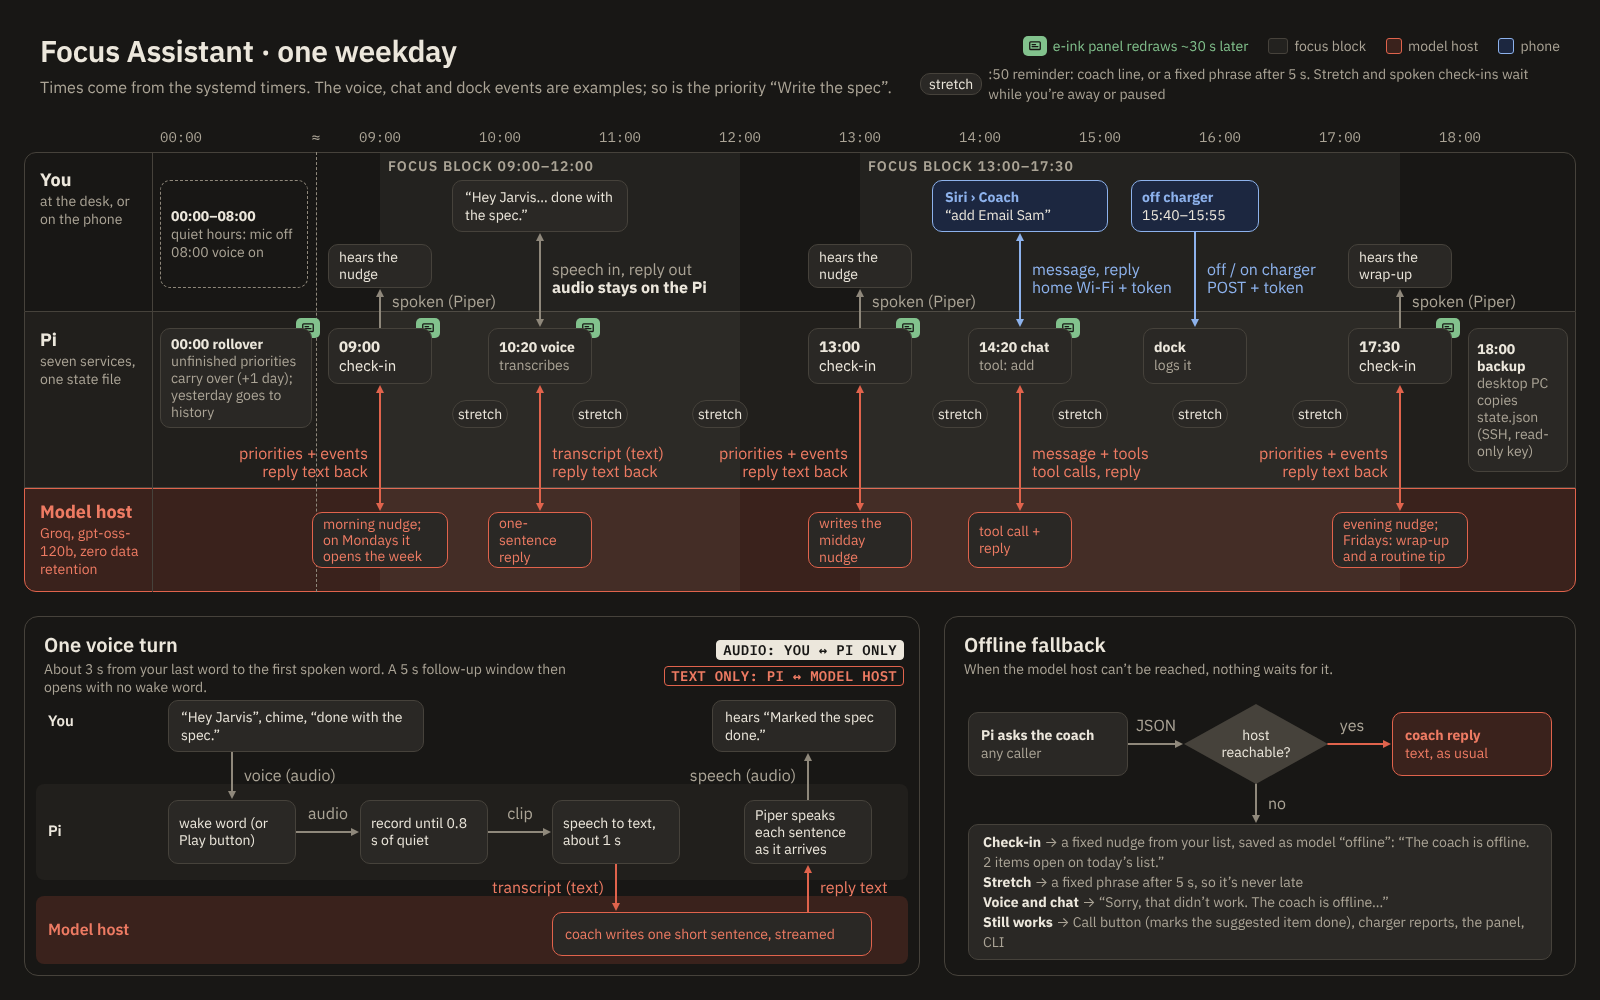
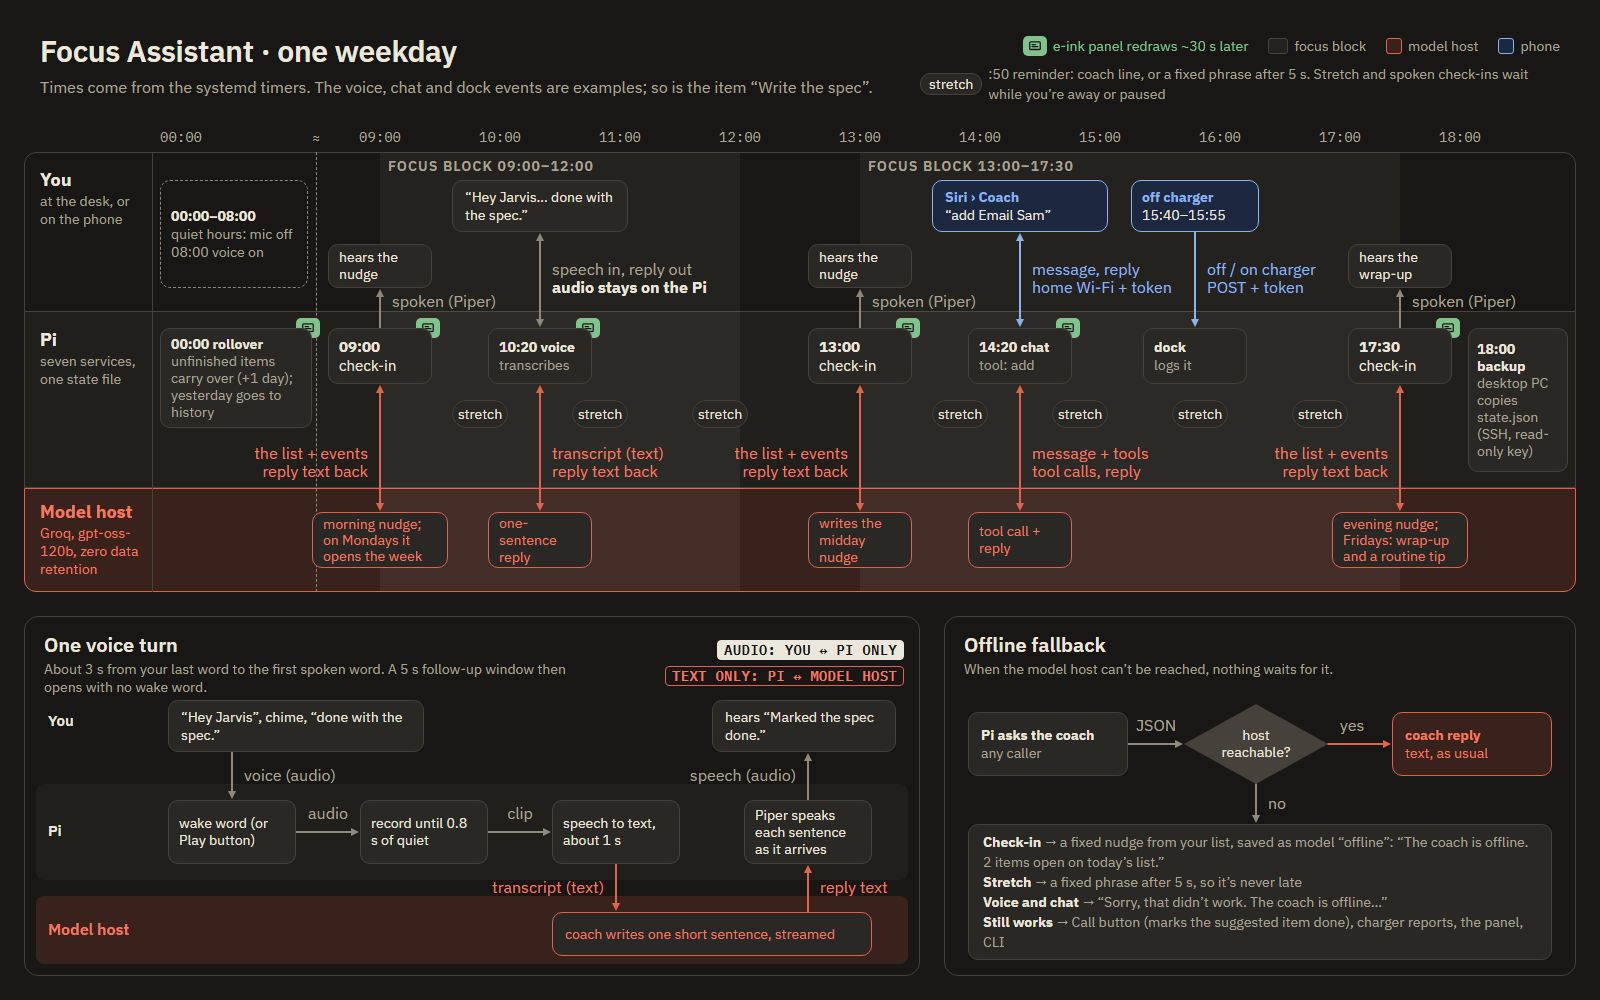
Say "list" and "items" in the docs, and correct the chat tool count
The docs and the weekday diagram still talked about priorities after the
switch to an unranked to-do list, and architecture.md still counted
thirteen chat tools; there are ten now (nine change the list, one rates
a reply).

diff --git a/docs/diagrams/workflow.html b/docs/diagrams/workflow.html
@@ -65,7 +65,7 @@ a{color:#1f4f9c}a:hover{color:#191815}
 
 <!-- title, legend, axis -->
 <div style="position: absolute; left: 40px; top: 32px; font-size: 30px; line-height: 38px; font-weight: 600; letter-spacing: -0.01em">Focus Assistant · one weekday</div>
-<div style="position: absolute; left: 40px; top: 76px; width: 860px; font-size: 16px; line-height: 22px; color: var(--muted)">Times come from the systemd timers. The voice, chat and dock events are examples; so is the priority “Write the spec”.</div>
+<div style="position: absolute; left: 40px; top: 76px; width: 860px; font-size: 16px; line-height: 22px; color: var(--muted)">Times come from the systemd timers. The voice, chat and dock events are examples; so is the item “Write the spec”.</div>
 <div style="position: absolute; left: 920px; top: 36px; width: 640px; display: flex; flex-wrap: wrap; gap: 8px 20px; justify-content: flex-end; font-size: 14px; line-height: 20px; color: var(--muted)">
 <span style="display: inline-flex; align-items: center; gap: 6px; color: var(--nokey)"><span class="pb"><svg width="14" height="14" viewBox="0 0 24 24" fill="none" stroke="currentColor" stroke-width="2.2" stroke-linecap="round" stroke-linejoin="round" aria-hidden="true"><rect x="3" y="5" width="18" height="13" rx="1.5"></rect><path d="M7 9.5h6M7 13h10"></path></svg></span>e-ink panel redraws ~30 s later</span>
 <span style="display: inline-flex; align-items: center; gap: 6px"><span style="display: inline-block; width: 18px; height: 14px; border-radius: 3px; background: var(--focus); border: 1px solid var(--border)"></span>focus block</span>
@@ -110,7 +110,7 @@ a{color:#1f4f9c}a:hover{color:#191815}
 <div style="position: absolute; left: 1348px; top: 244px; width: 104px; height: 44px; box-sizing: border-box; display: flex; align-items: center; padding: 4px 10px; background: var(--card); border: 1.5px solid var(--border); border-radius: 10px; font-size: 14px; line-height: 17px"><span>hears the wrap-up</span></div>
 
 <!-- Pi lane -->
-<div style="position: absolute; left: 160px; top: 328px; width: 152px; height: 100px; box-sizing: border-box; display: flex; align-items: center; padding: 6px 10px; background: var(--card); border: 1.5px solid var(--border); border-radius: 10px; font-size: 14px; line-height: 17px"><span><b style="font-size: 14px">00:00 rollover</b><br><span class="s">unfinished priorities carry over (+1 day); yesterday goes to history</span></span></div>
+<div style="position: absolute; left: 160px; top: 328px; width: 152px; height: 100px; box-sizing: border-box; display: flex; align-items: center; padding: 6px 10px; background: var(--card); border: 1.5px solid var(--border); border-radius: 10px; font-size: 14px; line-height: 17px"><span><b style="font-size: 14px">00:00 rollover</b><br><span class="s">unfinished items carry over (+1 day); yesterday goes to history</span></span></div>
 <div style="position: absolute; left: 328px; top: 328px; width: 104px; height: 56px; box-sizing: border-box; display: flex; align-items: center; padding: 4px 10px; background: var(--card); border: 1.5px solid var(--border); border-radius: 10px; font-size: 15px; line-height: 19px"><span><b>09:00</b><br>check-in</span></div>
 <div style="position: absolute; left: 488px; top: 328px; width: 104px; height: 56px; box-sizing: border-box; display: flex; align-items: center; padding: 4px 10px; background: var(--card); border: 1.5px solid var(--border); border-radius: 10px; font-size: 14px; line-height: 18px"><span><b>10:20 voice</b><br><span class="s">transcribes</span></span></div>
 <div style="position: absolute; left: 808px; top: 328px; width: 104px; height: 56px; box-sizing: border-box; display: flex; align-items: center; padding: 4px 10px; background: var(--card); border: 1.5px solid var(--border); border-radius: 10px; font-size: 15px; line-height: 19px"><span><b>13:00</b><br>check-in</span></div>
@@ -140,11 +140,11 @@ a{color:#1f4f9c}a:hover{color:#191815}
 <div style="position: absolute; left: 552px; top: 260px; width: 180px; font-size: 16px; line-height: 18px; color: var(--muted)">speech in, reply out<br><b style="color: var(--ink)">audio stays on the Pi</b></div>
 <div style="position: absolute; left: 1032px; top: 260px; width: 152px; font-size: 16px; line-height: 18px; color: var(--phone)">message, reply<br>home Wi-Fi + token</div>
 <div style="position: absolute; left: 1207px; top: 260px; width: 132px; font-size: 16px; line-height: 18px; color: var(--phone)">off / on charger<br>POST + token</div>
-<div style="position: absolute; left: 160px; top: 444px; width: 208px; text-align: right; font-size: 16px; line-height: 18px; color: var(--host)">priorities + events<br>reply text back</div>
+<div style="position: absolute; left: 160px; top: 444px; width: 208px; text-align: right; font-size: 16px; line-height: 18px; color: var(--host)">the list + events<br>reply text back</div>
 <div style="position: absolute; left: 552px; top: 444px; width: 140px; font-size: 16px; line-height: 18px; color: var(--host)">transcript (text)<br>reply text back</div>
-<div style="position: absolute; left: 704px; top: 444px; width: 144px; text-align: right; font-size: 16px; line-height: 18px; color: var(--host)">priorities + events<br>reply text back</div>
+<div style="position: absolute; left: 704px; top: 444px; width: 144px; text-align: right; font-size: 16px; line-height: 18px; color: var(--host)">the list + events<br>reply text back</div>
 <div style="position: absolute; left: 1032px; top: 444px; width: 148px; font-size: 16px; line-height: 18px; color: var(--host)">message + tools<br>tool calls, reply</div>
-<div style="position: absolute; left: 1244px; top: 444px; width: 144px; text-align: right; font-size: 16px; line-height: 18px; color: var(--host)">priorities + events<br>reply text back</div>
+<div style="position: absolute; left: 1244px; top: 444px; width: 144px; text-align: right; font-size: 16px; line-height: 18px; color: var(--host)">the list + events<br>reply text back</div>
 
 <!-- inset: one voice turn -->
 <div style="position: absolute; left: 44px; top: 632px; font-size: 20px; line-height: 26px; font-weight: 600">One voice turn</div>

diff --git a/docs/architecture.md b/docs/architecture.md
@@ -26,7 +26,7 @@ At a glance:
 
 <picture>
   <source media="(prefers-color-scheme: dark)" srcset="diagrams/week-simple-dark.png">
-  <img alt="A week at a glance: Monday opens the week with last Friday's tip, a later priority shows up on its day, a paused day off, Friday's wrap-up with one routine tip, carried into next Monday; below, where the routine tip comes from" src="diagrams/week-simple.png">
+  <img alt="A week at a glance: Monday opens the week with last Friday's tip, a later item shows up on its day, a paused day off, Friday's wrap-up with one routine tip, carried into next Monday; below, where the routine tip comes from" src="diagrams/week-simple.png">
 </picture>
 
 <picture>
@@ -56,7 +56,7 @@ a desktop PC that copies `state.json` at 18:00.
 
 ```
                     ┌───────────────── state.json ─────────────────┐
-                    │ priorities · check-ins · events · chat ·     │
+                    │ the list · check-ins · events · chat ·       │
                     │ 14-day history          (file lock, atomic)  │
                     └───────▲──────────────▲───────────────▲───────┘
                             │              │               │
@@ -73,11 +73,11 @@ a desktop PC that copies `state.json` at 18:00.
   lock for the whole read-modify-write and saves atomically (write, then
   rename), so a power cut never leaves a half-written file.
 - **Day rollover** happens in code at the first use each day: unfinished
-  priorities carry over (`carried_days + 1`, if a check-in ran that day and
+  items carry over (`carried_days + 1`, if a check-in ran that day and
   they were on the list by then), a summary of the day goes into `history`
   (with the patterns routine suggestions need: check-in times, when things
   got done, phone pickups by hour), and the day's check-ins, events and chat
-  are cleared. Priorities scheduled for another day wait in the same list
+  are cleared. Items scheduled for another day wait in the same list
   until their day. At the first rollover of a new week, Friday's review
   moves into `last_week` for Monday's check-in.
 - **`focus.actions`** is every state change (add, rename, schedule,
@@ -86,13 +86,14 @@ a desktop PC that copies `state.json` at 18:00.
   whichever input you use.
 - **The coach** (`coach.py`) is a single chat-completions call per check-in,
   to an open model on any OpenAI-compatible host. It gets a JSON payload:
-  priorities, today's check-ins, events and chat, and the last five daily
+  the list, today's check-ins, events and chat, and the last five daily
   summaries. The lock is never held during a model call. `<think>` text from
   reasoning models is stripped, streamed or not. If the host can't be
   reached, the check-in is a fixed nudge built from the same data
   (`offline_reply`), recorded with model `offline`.
 - **Chat** (`chat.py`) adds a small tool loop: the model can change
-  priorities only through thirteen tools that call `focus.actions`, at most six
+  the list only through nine tools that call `focus.actions` (a tenth rates
+  a reply), at most six
   model calls per message. Open models don't always follow a tool schema,
   so every argument is checked (JSON, whole-number ids, known values,
   length) before anything changes. Earlier turns are replayed as plain text.
@@ -111,7 +112,7 @@ focus/
   stretch.py      the :50 stretch reminder (coach-written, fixed fallback), :00 back to work
   presence.py     away or not, from charger events and desk sound
   pause.py        "quiet until 11" and days off: when check-ins and reminders wait
-  days.py         "tomorrow", "wed", "2026-10-24": days for pauses and later priorities
+  days.py         "tomorrow", "wed", "2026-10-24": days for pauses and later items
   feedback.py     replies.jsonl: every model reply with its payload, checks and ratings
   blocks.py       focus blocks (FOCUS_BLOCKS)
   display.py      the status page (HTML)

diff --git a/README.md b/README.md
@@ -1,7 +1,7 @@
 # focus-assistant
 
 A focus coach that lives on your desk. A Raspberry Pi checks in three times
-each workday, looks at your priorities and what has happened since the last
+each workday, looks at your to-do list and what has happened since the last
 check-in, and asks an open language model for a short, specific nudge: what to start with,
 how the morning went, what carries over to tomorrow. Everything else is
 optional and built around one idea: **help you focus without picking up
@@ -102,9 +102,9 @@ focus last            # the latest check-in
 focus status          # services, next timers, today, presence and API cost
 ```
 
-Each morning, unfinished priorities carry over with a "days carried" count,
+Each morning, unfinished items carry over with a "days carried" count,
 and finished ones go into a 14-day history the coach uses for context. A
-day counts only if a check-in ran on it, and only for priorities that were
+day counts only if a check-in ran on it, and only for items that were
 on the list by its last check-in: weekends, days off and tomorrow's plan
 added in the evening don't make anything look like it slipped. After
 three days carried, the coach suggests shrinking, rescheduling or dropping
@@ -128,7 +128,7 @@ routine suggestions any time, by chat or voice.
 **Improving the coach.** Every reply the model writes is kept on the Pi for
 60 days in `replies.jsonl`, next to exactly what the coach was given, and
 checked against the rules code can verify (length, no markdown, a morning
-check-in that names a priority, short on weekends). Rate replies with
+check-in that suggests an item, short on weekends). Rate replies with
 `focus rate good|bad`, or tell the coach "that was wrong". `focus feedback`
 lists what was rated bad or failed a check: bring those to the next round
 of changes to the prompts or code. The loop is drawn in
@@ -155,13 +155,13 @@ a dollar a month**. You can give chat, voice and stretch reminders a smaller,
 faster model (`FOCUS_CHAT_MODEL`). Set the prices in `focus.env` and
 `focus status` shows the day's cost from the token counts it records; set a
 spend limit at your model host if it offers one. If the host can't be reached,
-check-ins fall back to a fixed nudge built from your priorities.
+check-ins fall back to a fixed nudge built from your list.
 
 ## Privacy
 
 - **Your data stays on the Pi**, in one JSON file (and a 60-day log of the
   coach's replies, for improving it), except what is sent to
-  the model host you chose, to write each reply: your priorities, today's
+  the model host you chose, to write each reply: your list, today's
   events and check-ins, and recent daily summaries. Check that host's data
   retention policy.
 - **Speech never leaves the Pi.** Speech recognition (faster-whisper or

diff --git a/docs/install.md b/docs/install.md
@@ -1,6 +1,6 @@
 # Install
 
-This gets the core running: priorities and three check-ins a day. Every
+This gets the core running: the to-do list and three check-ins a day. Every
 optional feature builds on it; see the other guides when you're ready.
 
 ## What you need
@@ -139,5 +139,5 @@ sudo systemctl disable --now focus-checkin.timer focus-stretch.timer \
 sudo rm /etc/systemd/system/focus-* /etc/udev/rules.d/70-focus-powerconf.rules
 sudo rm -r /opt/focus-assistant /etc/focus-assistant /usr/local/bin/focus
 sudo systemctl daemon-reload
-rm -r ~/.local/state/focus-assistant           # your priorities and history
+rm -r ~/.local/state/focus-assistant           # your list and history
 ```

diff --git a/docs/configuration.md b/docs/configuration.md
@@ -27,7 +27,7 @@ point that `install.sh` copies.
 | `FOCUS_LOG_WORDS` | (off) | `1` writes what you say, type or mark done into the system journal. Off, the journal gets only the length (`<16 chars>`). Turn it on while tuning voice. |
 
 **When the host can't be reached** (or a setting is missing), check-ins
-use a fixed nudge from your priorities, stretch reminders use a fixed
+use a fixed nudge from your list, stretch reminders use a fixed
 phrase, and chat and voice answer that the coach is offline. Nothing else
 calls out, so there is no other fallback.
 

diff --git a/docs/phone.md b/docs/phone.md
@@ -167,7 +167,7 @@ http://focus.local:8765/display?k=<FOCUS_DISPLAY_TOKEN>
 ```
 
 The token goes in the URL because a browser bookmark can't send a header.
-Anyone with that link on your Wi-Fi can read your priorities. On an iPhone,
+Anyone with that link on your Wi-Fi can read your list. On an iPhone,
 Share > Add to Home Screen gives it an icon.
 
 The upper panel mirrors the e-ink display layout ([architecture.md](architecture.md#e-ink-display)).

diff --git a/docs/voice.md b/docs/voice.md
@@ -134,7 +134,7 @@ Speech recognition is the slowest step on a Pi. Measured on a Pi 4 with a
 
 Whisper pads every clip to 30 seconds, so short commands cost almost as much
 as long ones; Moonshine's time scales with the clip. Whisper is given your
-open priorities as a hint, which helps it spell project names and jargon;
+open items as a hint, which helps it spell project names and jargon;
 Moonshine takes no hint. To use Whisper instead:
 
 ```bash
